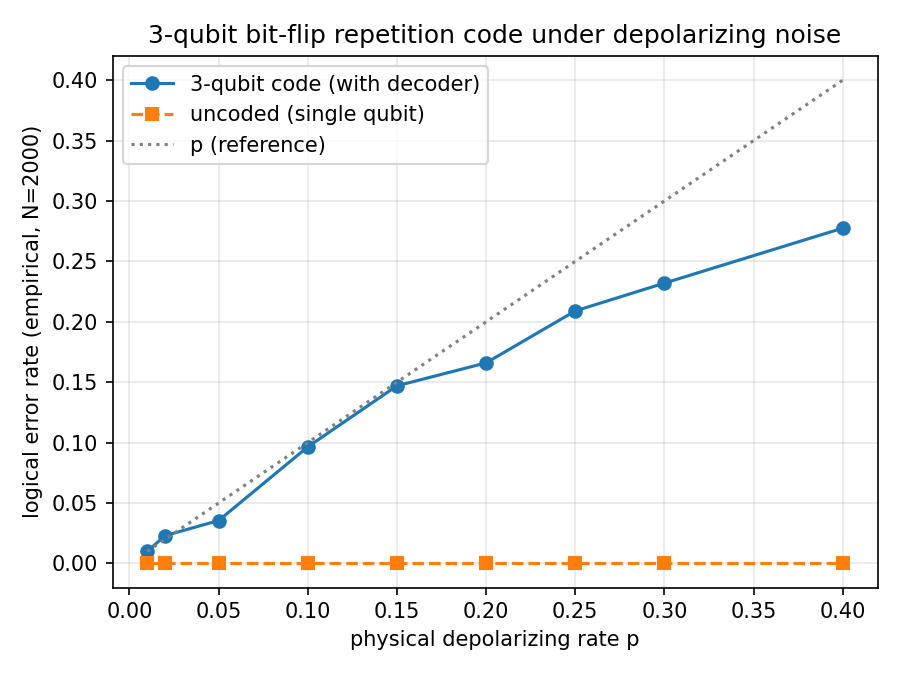
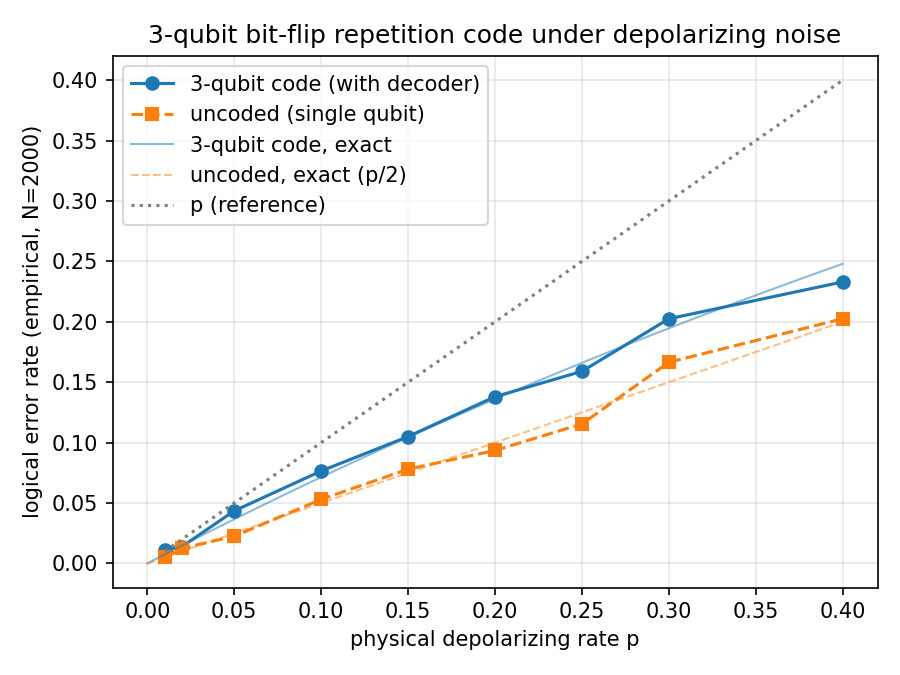
Phase 2.1 notebook: fix baseline, correct physics text, re-execute
The committed notebook could not run: its uncoded baseline also called
depolarizing_channel(p) and hit the same TypeError. It was committed
unexecuted, and logical_vs_physical.png did not come from the committed
code. The PNG showed the uncoded failure rate at exactly 0 for every p,
because the "fidelity < 0.5" rule never fires for a single depolarized
qubit (F = 1 - p/2).

- Baseline now uses depolarizing_kraus(p) and the same sampled
  logical-measurement rule as the library, so both curves estimate
  average infidelity.
- The plot and table now show the exact curves: coded
  0.5*(3q^2 - 2q^3) + 0.25*(1 - (1-p)^3) with q = p/2, and uncoded p/2.
- Markdown fixes: the depolarizing formula now matches the code
  (Nielsen-Chuang (1-p) rho + p I/2, not Stim's p/3 form), {0,1,+,-} is
  no longer called a 2-design, and the predicted small-p crossover is
  replaced by the derived result that this code is worse than no code at
  every 0 < p < 1 under depolarizing noise (Z exposure tripled).
- README goal 5 and the test filename are corrected to match.

The notebook is regenerated from _build_notebook.py (original cell ids
kept) and executed with nbconvert. The PNG is regenerated by that run.
Monte Carlo points (N=2000, seeds 42/43) agree with the exact curves
within about 2 binomial standard deviations.

Claude-Session: https://claude.ai/code/session_01PWSXcyEx8MpeCxMpwDRFHN

diff --git a/phase-02-qec-fundamentals/01-3qubit-repetition/_build_notebook.py b/phase-02-qec-fundamentals/01-3qubit-repetition/_build_notebook.py
@@ -56,7 +56,7 @@ def build() -> nbf.notebooknode.NotebookNode:
             "    PAULI_I,\n"
             "    PAULI_X,\n"
             "    apply_channel,\n"
-            "    depolarizing_channel,\n"
+            "    depolarizing_kraus,\n"
             ")\n"
             "\n"
             "rng = np.random.default_rng(seed=42)\n"
@@ -128,12 +128,13 @@ def build() -> nbf.notebooknode.NotebookNode:
         md(
             "## 3. Noise: independent single-qubit depolarizing\n\n"
             "Each physical qubit independently undergoes\n\n"
-            "    rho -> (1 - p) rho + (p/3)(X rho X + Y rho Y + Z rho Z).\n\n"
-            "At `p = 3/4` the qubit is replaced by the maximally mixed state `I/2` "
+            "    rho -> (1 - p) rho + p I/2 = (1 - 3p/4) rho + (p/4)(X rho X + Y rho Y + Z rho Z).\n\n"
+            "At `p = 1` the qubit is replaced by the maximally mixed state `I/2` "
             "(each Pauli, including I, applied with weight 1/4). This is the "
-            "standard `DEPOLARIZE1` parameterization in Stim and Nielsen-Chuang "
-            "Eq. 8.102. The total channel on the 3-qubit state is the tensor "
-            "product of the three single-qubit channels."
+            "Nielsen-Chuang convention used by `qec_project.noise.quantum.depolarizing_kraus`. "
+            "Stim's `DEPOLARIZE1(p)` applies each of X, Y, Z with probability p/3 instead, "
+            "so Stim's p is 3/4 of the p used here. The total channel on the 3-qubit "
+            "state is the tensor product of the three single-qubit channels."
         )
     )
 
@@ -182,8 +183,9 @@ def build() -> nbf.notebooknode.NotebookNode:
             "caused by a single X on qubit 0, etc. We apply the corresponding "
             "Pauli X correction. Two- or three-qubit X errors share syndromes "
             "with single-qubit X errors on a different qubit and will therefore "
-            "be mis-corrected. That is the source of the logical error rate we "
-            "measure below."
+            "be mis-corrected. That is the source of the bit-flip part of the "
+            "logical error rate we measure below; the phase-flip part comes from "
+            "Z errors, which are never detected."
         )
     )
 
@@ -205,20 +207,26 @@ def build() -> nbf.notebooknode.NotebookNode:
             "## 6. Logical error rate vs physical error rate\n\n"
             "Now the headline plot. We sweep `p` and, for each value, run "
             "`N = 2000` trials. Each trial picks one of the four logical basis "
-            "states `{|0>, |1>, |+>, |->}` (so we are averaging the channel "
-            "infidelity over a 2-design - the standard average-case metric for "
-            "a code), encodes, noises, syndrome-extracts, decodes, and checks "
-            "whether the recovered logical state has fidelity > 0.5 with the input.\n\n"
+            "states `{|0>, |1>, |+>, |->}` (Z and X eigenstates, so both bit-flip "
+            "and phase-flip failures are counted), encodes, noises, syndrome-extracts, "
+            "decodes, and measures the recovered logical qubit in a basis containing "
+            "the input state. The trial fails with probability `1 - F`, where `F` is "
+            "the fidelity of the recovered state with the input, so the failure rate "
+            "estimates the average logical infidelity.\n\n"
             "The uncoded baseline is one qubit undergoing the same depolarizing "
             "channel. To keep apples-to-apples, we run the same Monte-Carlo "
             "procedure on the uncoded qubit and read off its empirical failure rate.\n\n"
-            "Expected shape: at small `p` the coded curve sits below the uncoded "
-            "curve (coding helps) and at large `p` it eventually crosses (coding "
-            "hurts because the syndrome lookup mis-corrects too often). The "
-            "crossover is the code's *pseudo-threshold*. For this toy distance-3 "
-            "code with this decoder, the curves are close throughout - distance "
-            "is the same as for the classical Hamming(7,4) plot in Phase 0.3, so "
-            "this picture is purely qualitative."
+            "Expected shape, derived exactly: each qubit is bit-flipped (X or Y) "
+            "with probability `q = p/2` and phase-flipped (Z or Y) with probability "
+            "`p/2`. For `|0>` and `|1>` the code fails only when a majority of qubits "
+            "is bit-flipped, `3q^2 - 2q^3`, which is quadratic in `p`. For `|+>` and "
+            "`|->` it fails when an odd number of qubits is phase-flipped, "
+            "`(1 - (1 - p)^3) / 2`, about `3p/2`, because the code cannot see Z "
+            "errors and now has three qubits exposed to them. The average over the "
+            "four inputs is about `3p/4` at small `p`, above the uncoded `p/2`. So "
+            "under depolarizing noise this code is worse than no code at every "
+            "`p < 1`: it buys a quadratic bit-flip rate with a tripled phase-flip "
+            "rate. The plot overlays these exact curves on the Monte Carlo points."
         )
     )
 
@@ -233,14 +241,14 @@ def build() -> nbf.notebooknode.NotebookNode:
             "        np.array([1.0, 1.0], dtype=complex) / np.sqrt(2),\n"
             "        np.array([1.0, -1.0], dtype=complex) / np.sqrt(2),\n"
             "    ]\n"
-            "    K = depolarizing_channel(p)\n"
+            "    K = depolarizing_kraus(p)\n"
             "    failures = 0\n"
             "    for _ in range(n_trials):\n"
             "        psi = basis[int(rng.integers(0, 4))]\n"
             "        rho = np.outer(psi, psi.conj())\n"
             "        rho_n = apply_channel(rho, K)\n"
             "        fidelity = float(np.real(psi.conj() @ rho_n @ psi))\n"
-            "        if fidelity < 0.5:\n"
+            "        if rng.random() >= fidelity:\n"
             "            failures += 1\n"
             "    return failures / n_trials"
         )
@@ -257,8 +265,15 @@ def build() -> nbf.notebooknode.NotebookNode:
             "coded = [code3.simulate_logical_error_rate(p=p, n_trials=N, rng=rng_coded) for p in ps]\n"
             "uncoded = [uncoded_logical_error_rate(p=p, n_trials=N, rng=rng_unc) for p in ps]\n"
             "\n"
+            "\n"
+            "def coded_exact(p):\n"
+            "    q = p / 2\n"
+            "    return 0.5 * (3 * q**2 - 2 * q**3) + 0.25 * (1 - (1 - p) ** 3)\n"
+            "\n"
+            "\n"
             "for p, c, u in zip(ps, coded, uncoded, strict=True):\n"
-            "    print(f'p={p:.3f}  coded={c:.4f}  uncoded={u:.4f}')"
+            "    print(f'p={p:.3f}  coded={c:.4f} (exact {coded_exact(p):.4f})  '\n"
+            "          f'uncoded={u:.4f} (exact {p / 2:.4f})')"
         )
     )
 
@@ -267,6 +282,9 @@ def build() -> nbf.notebooknode.NotebookNode:
             "fig, ax = plt.subplots(figsize=(6, 4.5))\n"
             "ax.plot(ps, coded, 'o-', label='3-qubit code (with decoder)')\n"
             "ax.plot(ps, uncoded, 's--', label='uncoded (single qubit)')\n"
+            "p_fine = np.linspace(0.0, max(ps), 101)\n"
+            "ax.plot(p_fine, coded_exact(p_fine), '-', color='C0', lw=1, alpha=0.5, label='3-qubit code, exact')\n"
+            "ax.plot(p_fine, p_fine / 2, '--', color='C1', lw=1, alpha=0.5, label='uncoded, exact (p/2)')\n"
             "ax.plot(ps, ps, ':', color='gray', label='p (reference)')\n"
             "ax.set_xlabel('physical depolarizing rate p')\n"
             "ax.set_ylabel('logical error rate (empirical, N=2000)')\n"
@@ -285,8 +303,9 @@ def build() -> nbf.notebooknode.NotebookNode:
             "The shape of this plot is the shape of every QEC benchmark you will "
             "produce in this project:\n\n"
             "- **Phase 0.3** showed the same plot for the classical Hamming(7,4) "
-            "code under a binary symmetric channel. Same axes, same crossover, "
-            "same intuition.\n"
+            "code under a binary symmetric channel. Same axes. There the codes beat "
+            "the uncoded bit at small `p`; here the code never does, because a quantum "
+            "code must also protect the phase.\n"
             "- **Phase 3** will show the same plot for the rotated surface code "
             "at distances 3, 5, 7 - except those curves will *cross at the threshold*, "
             "the same crossing point regardless of distance. That is the headline "

diff --git a/phase-02-qec-fundamentals/01-3qubit-repetition/README.md b/phase-02-qec-fundamentals/01-3qubit-repetition/README.md
@@ -18,7 +18,9 @@ loop are the universal template you will reuse for Shor 9 (Phase 2.2), Steane
    ancilla circuit in Qiskit.
 4. Apply the maximum-likelihood single-qubit X recovery.
 5. Sweep physical error rate p, plot logical error rate vs p alongside
-   the uncoded baseline, show the crossover where coding starts to hurt.
+   the uncoded baseline and the exact curves, and show that under
+   depolarizing noise the code is worse than an uncoded qubit at every
+   0 < p < 1: it corrects X errors but triples the exposure to Z errors.
 
 ## Deliverables
 
@@ -27,7 +29,7 @@ loop are the universal template you will reuse for Shor 9 (Phase 2.2), Steane
   (reused by Phase 2.2 Shor 9).
 - `src/qec_project/noise/quantum.py` - Pauli matrices and Kraus channels
   (reused throughout Phase 2).
-- `tests/test_noise_quantum.py`, `tests/test_repetition3.py`.
+- `tests/test_quantum_noise.py`, `tests/test_repetition3.py`.
 
 ## What this code does NOT correct
 
